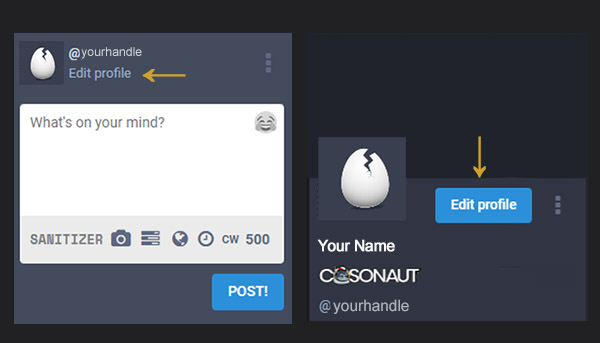
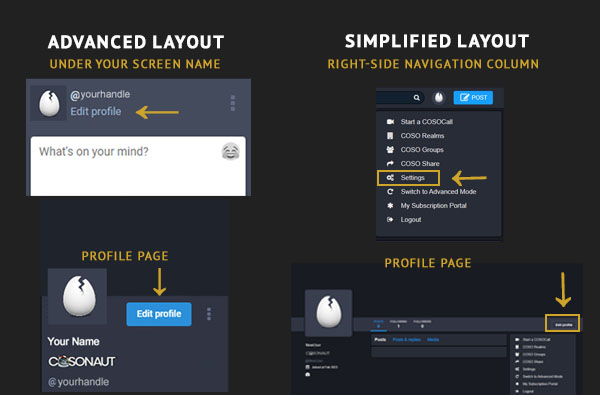
Added Simplified Layout instructions.

diff --git a/docs/source/getting-started.rst b/docs/source/getting-started.rst
@@ -37,7 +37,7 @@ To switch from Advanced to Simplified mode, simply located the link in the right
 Setting Up Your Profile
 ------------
  
-You can find all preferences and settings by clicking on the “Edit Profile” link at the top of your profile page. You can access your profile page by clicking on your Display Name.
+You can find all preferences and settings by clicking on the “Edit Profile” link at the top of your profile page (Advanced Layout) or through the "Settings" link found in the right-side navigation column (Simplified Layout). There is also an "Edit Profile" button found on the top of your profile page in both modes. You can access your profile page by clicking on your Display Name.
 
 .. image:: _images/img_editprofile.jpg
 
